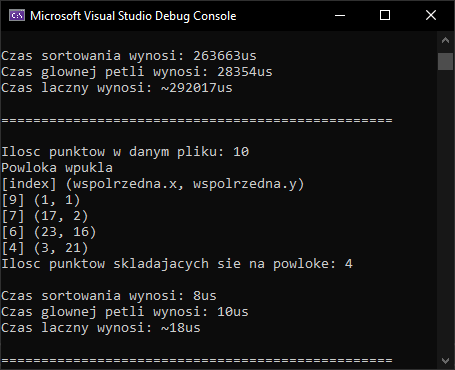
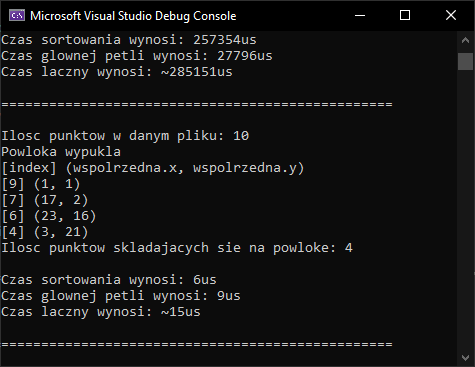
Typos fix

diff --git a/source/Main.cpp b/source/Main.cpp
@@ -125,7 +125,7 @@ int main() {
         auto startMainLoop = steady_clock::now();
         std::vector<punkt> powloka = grahamScan(punkty);
         auto endMainLoop = steady_clock::now();
-        std::cout << "Powloka wpukla\n[index] (wspolrzedna.x, wspolrzedna.y)" << std::endl;
+        std::cout << "Powloka wypukla\n[index] (wspolrzedna.x, wspolrzedna.y)" << std::endl;
 		display(powloka);
         std::cout << "\nCzas sortowania wynosi: " << duration_cast<microseconds>(endSort - startSort).count() << "us" << std::endl;
         std::cout << "Czas glownej petli wynosi: " << duration_cast<microseconds>(endMainLoop - startMainLoop).count() << "us" << std::endl;
